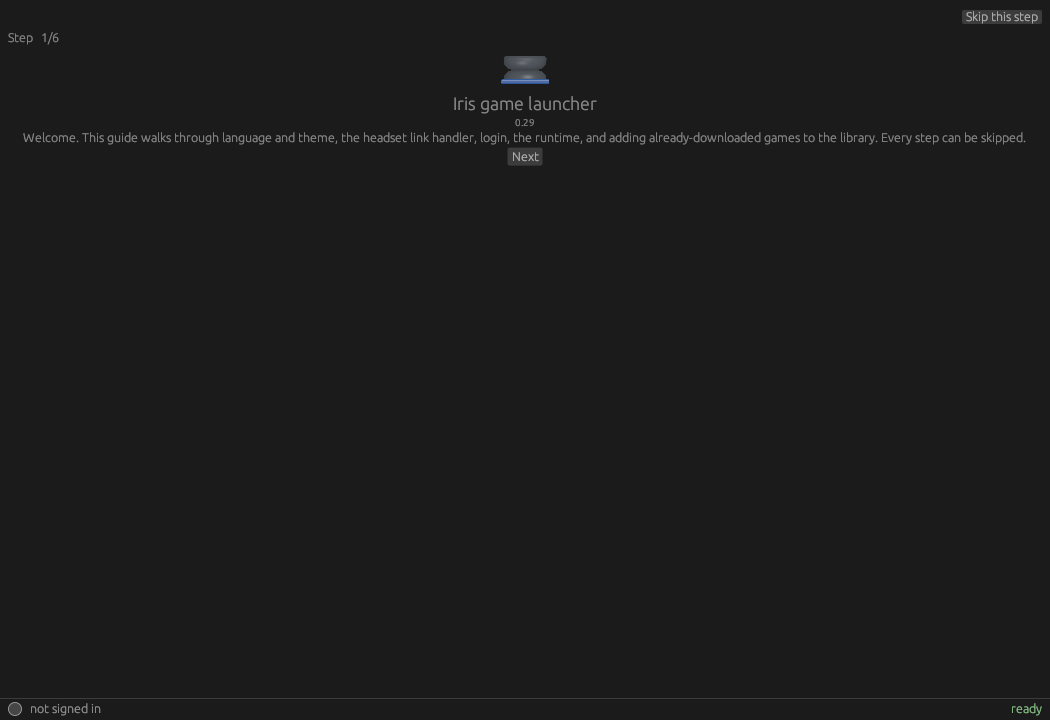
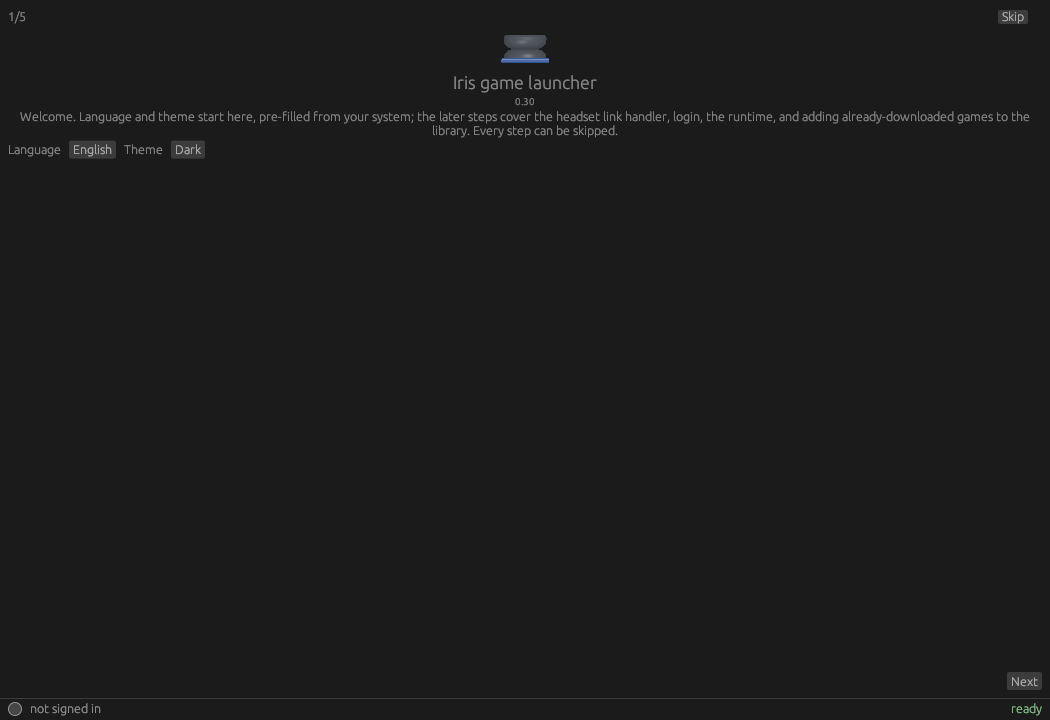
wizard layout per user: bare Skip/Pomiń in top row with counter at same height, welcome carries language and theme, Next/Finish bottom-right; 5 steps now; screenshots updated; bump 0.30.0

diff --git a/launcher/src/onboarding.rs b/launcher/src/onboarding.rs
@@ -4,10 +4,10 @@
 // language/theme and showing an empty library) left new users without any
 // pointer to what to configure.
 //
-// Steps mirror the settings page but in a guided order: appearance (language
-// and theme were already pre-filled from the desktop on first run, see
-// App::new), headset link handler, login, runtime (Proton on Linux, Revive on
-// Windows), then adding already-downloaded games to the library. Nested egui
+// Layout rules: the counter sits in the same top row as the skip button;
+// language and theme live on the first screen (they were already pre-filled
+// from the desktop on first run, see App::new); important buttons and logo are
+// centered; Next/Finish anchors to the bottom-right corner. Nested egui
 // closures take immutable reads of app only; wizard writes go through local
 // flags applied after the drawing closures end.
 
@@ -22,7 +22,6 @@ use eframe::egui;
 #[derive(Clone, Copy, PartialEq, Eq, Debug)]
 pub enum Step {
     Welcome,
-    Appearance,
     Handler,
     Login,
     Runtime,
@@ -44,10 +43,9 @@ impl Onboarding {
         }
     }
 
-    pub fn steps() -> [Step; 6] {
+    pub fn steps() -> [Step; 5] {
         [
             Step::Welcome,
-            Step::Appearance,
             Step::Handler,
             Step::Login,
             Step::Runtime,
@@ -105,24 +103,17 @@ enum Action {
 }
 
 pub fn render(app: &mut App, ui: &mut egui::Ui) {
-    // Skip lives in the top-right corner, small and quiet: the wizard's own
-    // actions are the main focus, not skipping them. The layout fills only
-    // the row height (a plain with_layout would consume the whole panel and
-    // leave the wizard content off-screen).
+    // Skip is small, quiet and bare ("Skip"/"Pomiń"), in the top-right corner.
+    // The counter shares the same row: push it right with a spacer instead of
+    // a layout, so both sit at equal height.
     let mut skip = false;
-    ui.horizontal(|ui| {
-        ui.with_layout(egui::Layout::right_to_left(egui::Align::Center), |ui| {
-            skip = ui.small_button(tr(&app.config, "onboard_skip")).clicked();
-        });
-    });
-
     let step = app.onboarding.step;
     let n = app.onboarding.index() + 1;
     let total = Onboarding::steps().len();
     let skipped = app.onboarding.skipped.clone();
     let mut reopen: Option<Step> = None;
+    let skip_w = 44.0;
     ui.horizontal(|ui| {
-        ui.label(tr(&app.config, "onboard_step_x"));
         ui.label(format!("{n}/{total}"));
         for s in skipped.iter().copied() {
             let label = format!(
@@ -134,6 +125,9 @@ pub fn render(app: &mut App, ui: &mut egui::Ui) {
                 reopen = Some(s);
             }
         }
+        let space = (ui.available_width() - skip_w).max(0.0);
+        ui.add_space(space);
+        skip = ui.small_button(tr(&app.config, "onboard_skip")).clicked();
     });
     if let Some(s) = reopen {
         app.onboarding.step = s;
@@ -160,11 +154,6 @@ pub fn render(app: &mut App, ui: &mut egui::Ui) {
                     .size(head * 0.55),
             );
             ui.label(tr(&app.config, "onboard_welcome_hint"));
-            next = ui.button(tr(&app.config, "onboard_next")).clicked();
-        }
-        Step::Appearance => {
-            ui.heading(tr(&app.config, "onboard_appearance_head"));
-            ui.label(tr(&app.config, "onboard_appearance_hint"));
             let mut pick_lang: Option<String> = None;
             let mut pick_theme: Option<String> = None;
             ui.horizontal(|ui| {
@@ -200,7 +189,6 @@ pub fn render(app: &mut App, ui: &mut egui::Ui) {
                 app.config.theme = theme;
                 app.save_config();
             }
-            next = ui.button(tr(&app.config, "onboard_next")).clicked();
         }
         Step::Handler => {
             ui.heading(tr(&app.config, "onboard_handler_head"));
@@ -236,7 +224,6 @@ pub fn render(app: &mut App, ui: &mut egui::Ui) {
                 tr(&app.config, "headset_link_handler_label"),
                 crate::auth::handler_status()
             ));
-            next = ui.button(tr(&app.config, "onboard_next")).clicked();
         }
         Step::Login => {
             ui.heading(tr(&app.config, "onboard_login_head"));
@@ -263,7 +250,6 @@ pub fn render(app: &mut App, ui: &mut egui::Ui) {
             if apply {
                 action = Some(Action::ApplyCallback);
             }
-            next = ui.button(tr(&app.config, "onboard_next")).clicked();
         }
         Step::Runtime => {
             ui.heading(tr(&app.config, "onboard_runtime_head"));
@@ -317,7 +303,6 @@ pub fn render(app: &mut App, ui: &mut egui::Ui) {
                         .desired_width(320.0),
                 );
             }
-            next = ui.button(tr(&app.config, "onboard_next")).clicked();
         }
         Step::Games => {
             ui.heading(tr(&app.config, "onboard_games_head"));
@@ -345,7 +330,16 @@ pub fn render(app: &mut App, ui: &mut egui::Ui) {
             if import {
                 action = Some(Action::ImportFolder);
             }
+        }
+    });
+
+    // Next/Finish live at the bottom-right corner: the row fills the
+    // remaining area and Align::Max pins it to the bottom-right.
+    ui.with_layout(egui::Layout::right_to_left(egui::Align::Max), |ui| {
+        if step == Step::Games {
             finish = ui.button(tr(&app.config, "onboard_finish")).clicked();
+        } else {
+            next = ui.button(tr(&app.config, "onboard_next")).clicked();
         }
     });
 
@@ -446,7 +440,6 @@ fn load_logo(app: &mut App, ui: &mut egui::Ui) {
 pub fn step_name(step: Step) -> &'static str {
     match step {
         Step::Welcome => "welcome",
-        Step::Appearance => "appearance",
         Step::Handler => "handler",
         Step::Login => "login",
         Step::Runtime => "runtime",

diff --git a/launcher/languages/pl.rs b/launcher/languages/pl.rs
@@ -121,16 +121,13 @@ pub(crate) const PL: &[(&str, &str)] = &[
     ("token_kind", "rodzaj tokenu: {kind}"),
     ("headset_link_handler_label", "obsługa łącza headsetu"),
     ("library_count_label", "gry w bibliotece"),
-    ("onboard_skip", "Pomiń ten krok"),
+    ("onboard_skip", "Pomiń"),
     ("onboard_next", "Dalej"),
     ("onboard_finish", "Zakończ setup"),
-    ("onboard_step_x", "Krok"),
     ("onboard_skipped", "krok pominięty — możesz go powtórzyć w Ustawieniach"),
     ("onboard_skipped_short", "pominięty"),
     ("onboard_setup_guide", "Poradnik setupu"),
-    ("onboard_welcome_hint", "Witaj. Ten poradnik przechodzi przez język i motyw, obsługę łącza headsetu, logowanie, runtime oraz dodanie już pobranych gier do biblioteki. Każdy krok można pominąć."),
-    ("onboard_appearance_head", "Język i motyw"),
-    ("onboard_appearance_hint", "Systemowy locale i motyw pulpitu wykryto przy pierwszym uruchomieniu; zmień poniżej, jeśli wyglądają źle."),
+    ("onboard_welcome_hint", "Witaj. Język i motyw zaczynają się tutaj, wstępnie z systemu; dalsze kroki to obsługa łącza headsetu, logowanie, runtime i dodanie już pobranych gier do biblioteki. Każdy krok można pominąć."),
     ("onboard_handler_head", "Obsługa łącza headsetu"),
     ("onboard_handler_hint", "Link oculus:// musi trafiać z powrotem do tego launchera; ustaw go, żeby logowanie przez przeglądarkę działało."),
     ("onboard_login_head", "Logowanie"),

diff --git a/launcher/languages/en.rs b/launcher/languages/en.rs
@@ -121,16 +121,13 @@ pub(crate) const EN: &[(&str, &str)] = &[
     ("token_kind", "token kind: {kind}"),
     ("headset_link_handler_label", "headset link handler"),
     ("library_count_label", "library games"),
-    ("onboard_skip", "Skip this step"),
+    ("onboard_skip", "Skip"),
     ("onboard_next", "Next"),
     ("onboard_finish", "Finish setup"),
-    ("onboard_step_x", "Step"),
     ("onboard_skipped", "step skipped — you can redo it from Settings"),
     ("onboard_skipped_short", "skipped"),
     ("onboard_setup_guide", "Setup guide"),
-    ("onboard_welcome_hint", "Welcome. This guide walks through language and theme, the headset link handler, login, the runtime, and adding already-downloaded games to the library. Every step can be skipped."),
-    ("onboard_appearance_head", "Language and theme"),
-    ("onboard_appearance_hint", "The system locale and desktop theme were detected at first run; change anything below if they look wrong."),
+    ("onboard_welcome_hint", "Welcome. Language and theme start here, pre-filled from your system; the later steps cover the headset link handler, login, the runtime, and adding already-downloaded games to the library. Every step can be skipped."),
     ("onboard_handler_head", "Headset link handler"),
     ("onboard_handler_hint", "The oculus:// link needs to land back in this launcher; set it so browser login works."),
     ("onboard_login_head", "Login"),

diff --git a/launcher/src/tests/onboarding.rs b/launcher/src/tests/onboarding.rs
@@ -7,8 +7,6 @@ fn wizard_steps_advance_in_order_and_finish_at_games() {
     let mut w = Onboarding::new(true);
     assert_eq!(w.step, Step::Welcome);
     assert!(!w.advance());
-    assert_eq!(w.step, Step::Appearance);
-    assert!(!w.advance());
     assert_eq!(w.step, Step::Handler);
     assert!(!w.advance());
     assert_eq!(w.step, Step::Login);
@@ -26,7 +24,7 @@ fn skipping_a_step_records_it_and_stays_reopenable() {
     let mut w = Onboarding::new(true);
     w.skip_current();
     assert!(w.was_skipped(Step::Welcome));
-    assert_eq!(w.step, Step::Appearance);
+    assert_eq!(w.step, Step::Handler);
     w.skipped.push(Step::Handler);
     assert_eq!(w.index(), 1);
 }
